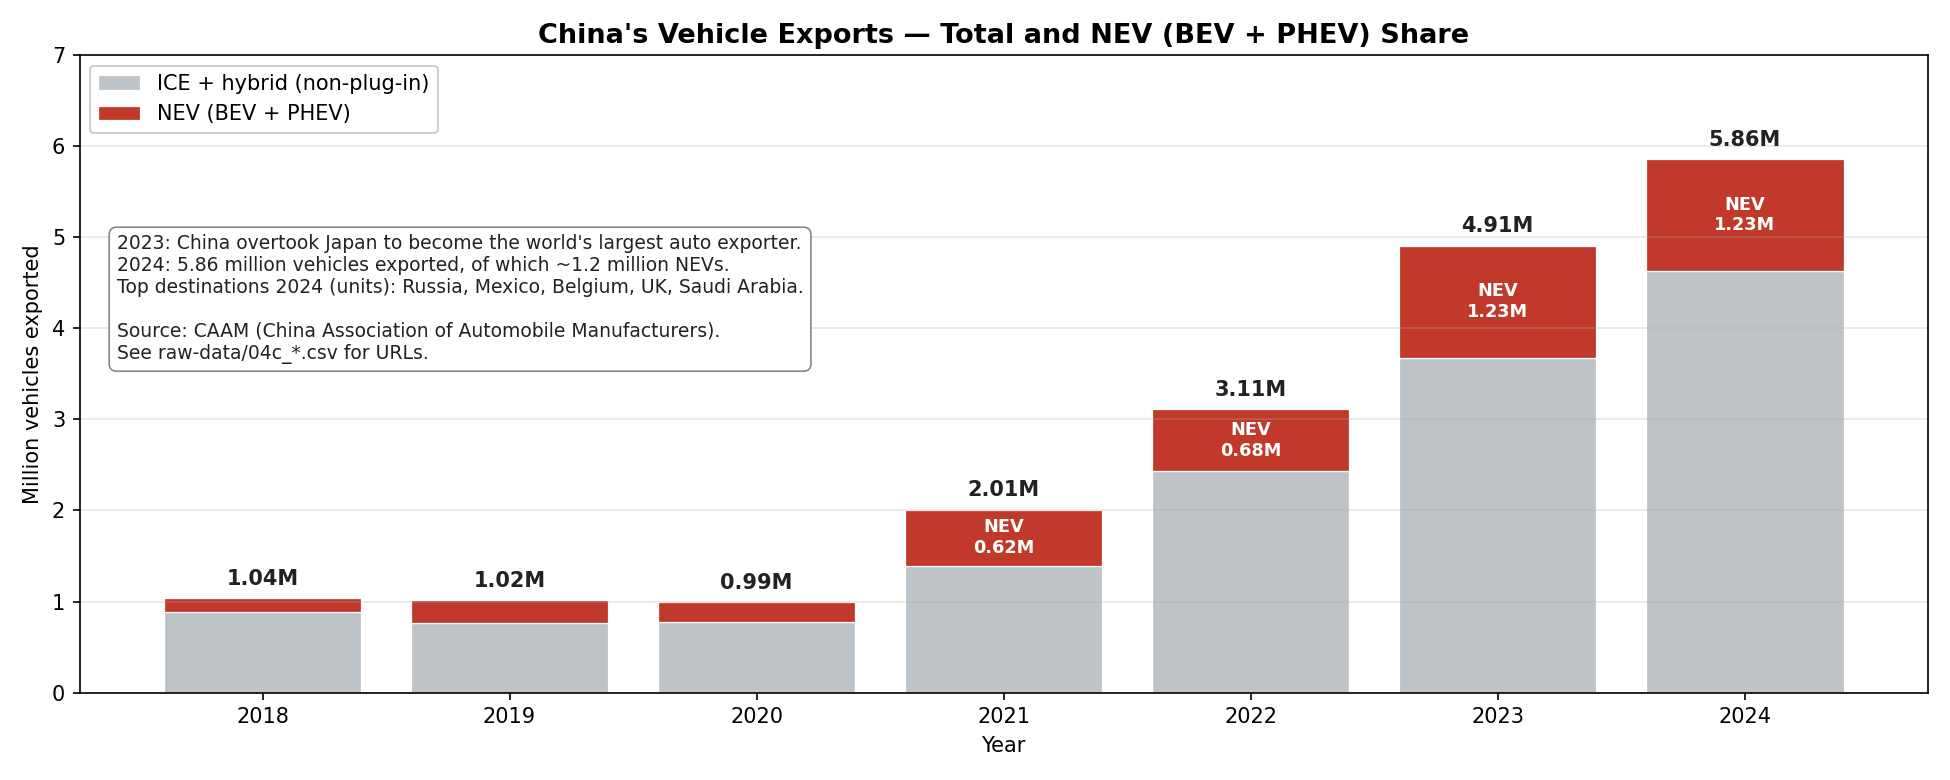
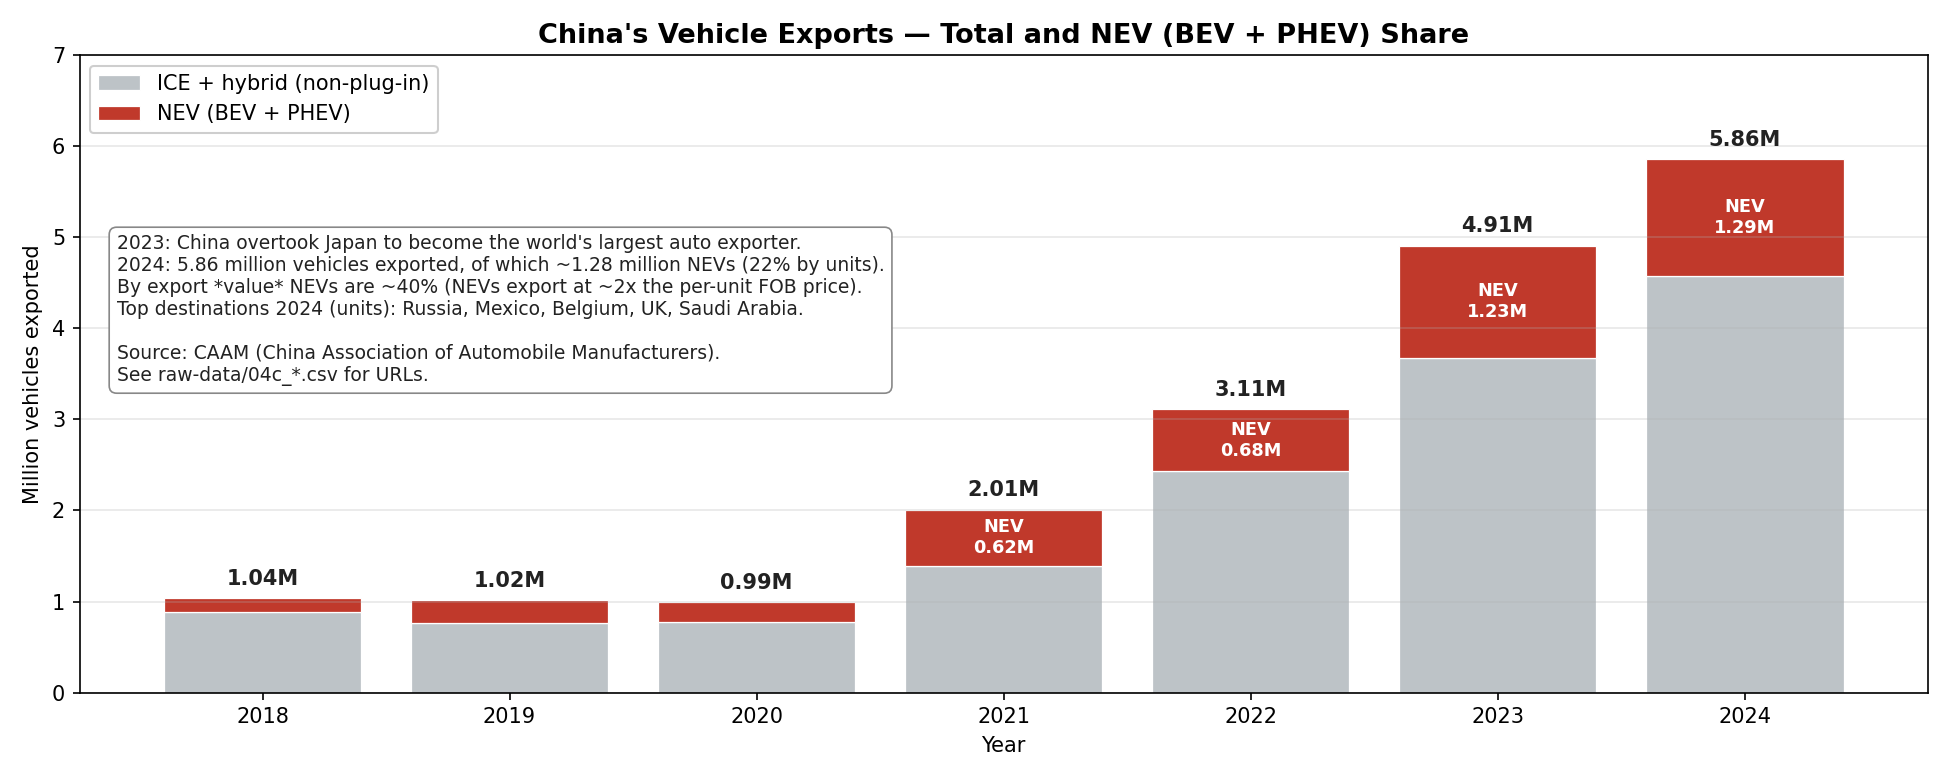
Clarify §5 NEV export share: 22% by units, ~40% by value
CAAM official 2024 figure is 1.284M NEV / 5.859M total = 21.9% — CSV
bumped from 21 → 22 for precision. Headlines that quote "40% of China
auto exports are EVs" are measuring export *value*, not units, because
NEVs ship at ~2x the per-unit FOB price of the ICE mix. Both numbers
are correct measurements of different things; chart annotation and §5
prose now state both explicitly.

Changed region(s): [[0.0615, 0.3077, 0.4615, 0.4923], [0.8308, 0.3385, 0.9538, 0.3692], [0.8615, 0.2462, 0.9231, 0.3077]]

diff --git a/china-industry/04_evs.py b/china-industry/04_evs.py
@@ -145,7 +145,8 @@ ax.legend(loc="upper left", fontsize=10, framealpha=0.95)
 ax.grid(axis="y", alpha=0.3)
 ax.annotate(
     "2023: China overtook Japan to become the world's largest auto exporter.\n"
-    "2024: 5.86 million vehicles exported, of which ~1.2 million NEVs.\n"
+    "2024: 5.86 million vehicles exported, of which ~1.28 million NEVs (22% by units).\n"
+    "By export *value* NEVs are ~40% (NEVs export at ~2x the per-unit FOB price).\n"
     "Top destinations 2024 (units): Russia, Mexico, Belgium, UK, Saudi Arabia.\n\n"
     "Source: CAAM (China Association of Automobile Manufacturers).\n"
     "See raw-data/04c_*.csv for URLs.",

diff --git a/china-industry/report.md b/china-industry/report.md
@@ -337,7 +337,10 @@ comparator.
 
 China became the world's largest auto exporter in 2023, overtaking Japan
 on units shipped. The 2024 total was 5.86 million vehicles, of which
-roughly 1.23 million were NEVs (BEV + PHEV). Top destinations in 2024
+roughly 1.28 million were NEVs (BEV + PHEV) — 22% by unit count, but
+about 40% by export *value* because NEVs ship at roughly 2x the per-unit
+FOB price of the ICE vehicles in the export mix (the higher figure is
+often what trade-press headlines quote). Top destinations in 2024
 included Russia, Mexico, Belgium, the UK, Saudi Arabia and Brazil. The
 EU's October 2024 countervailing duties on Chinese BEVs (17.4–35.3% on
 top of the existing 10% tariff) have been visible in the destination
